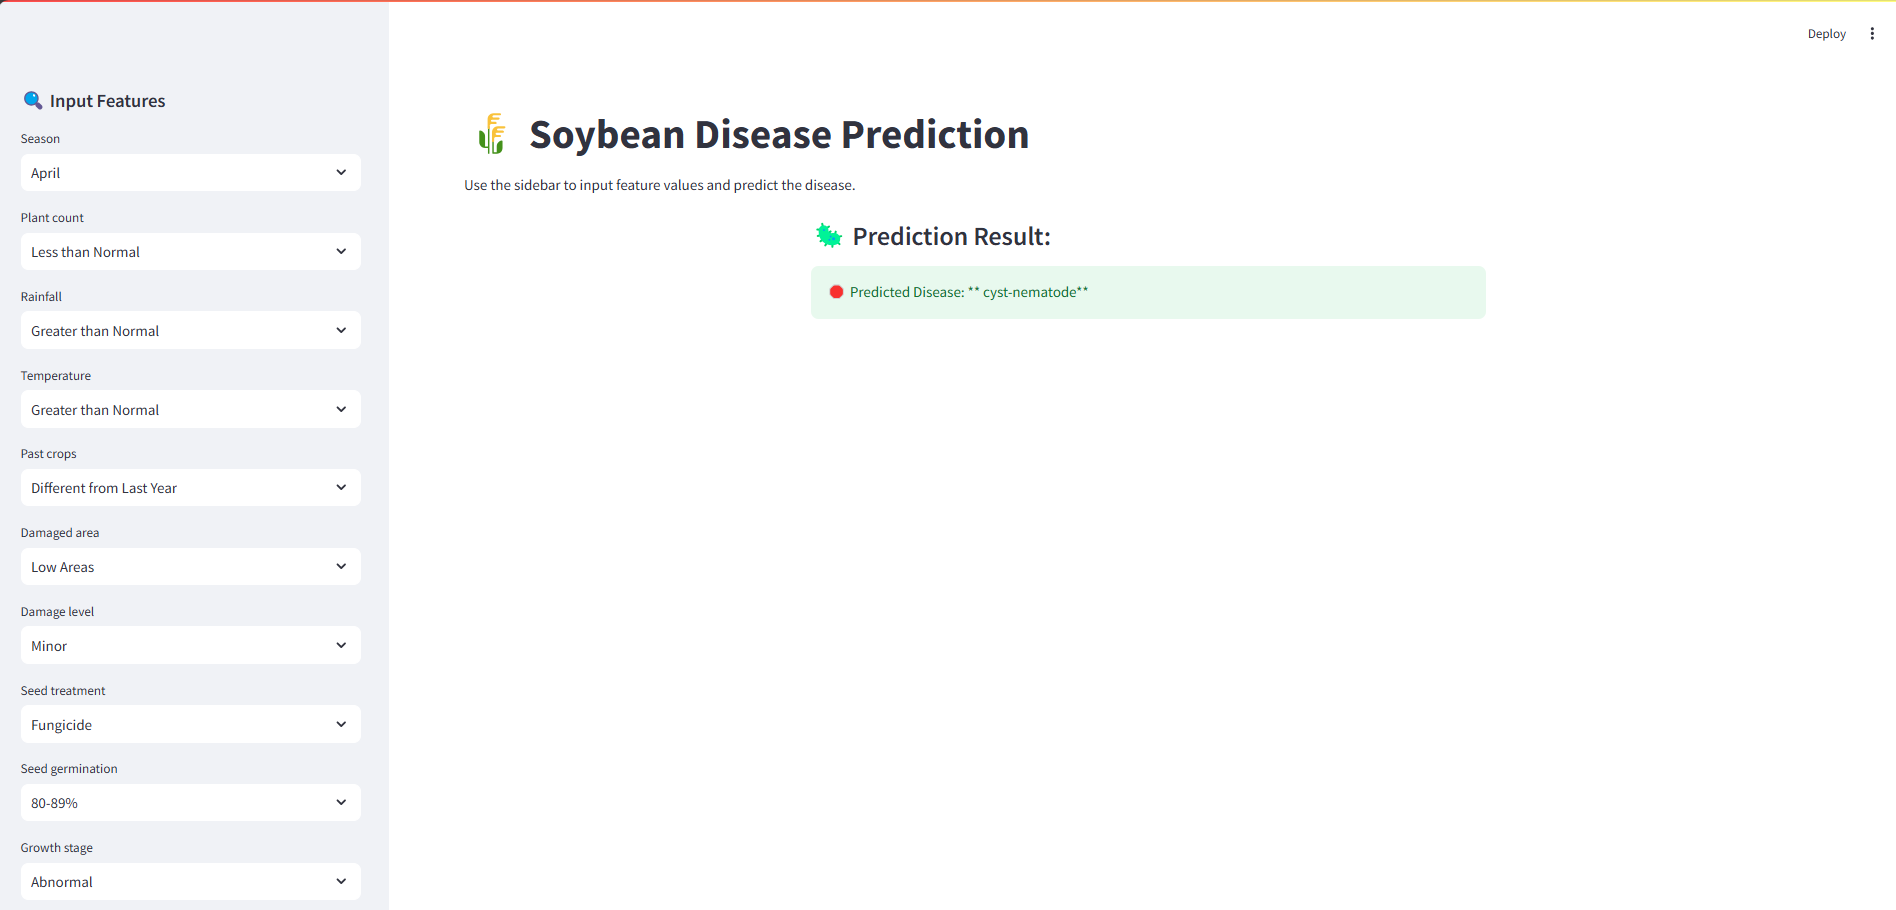
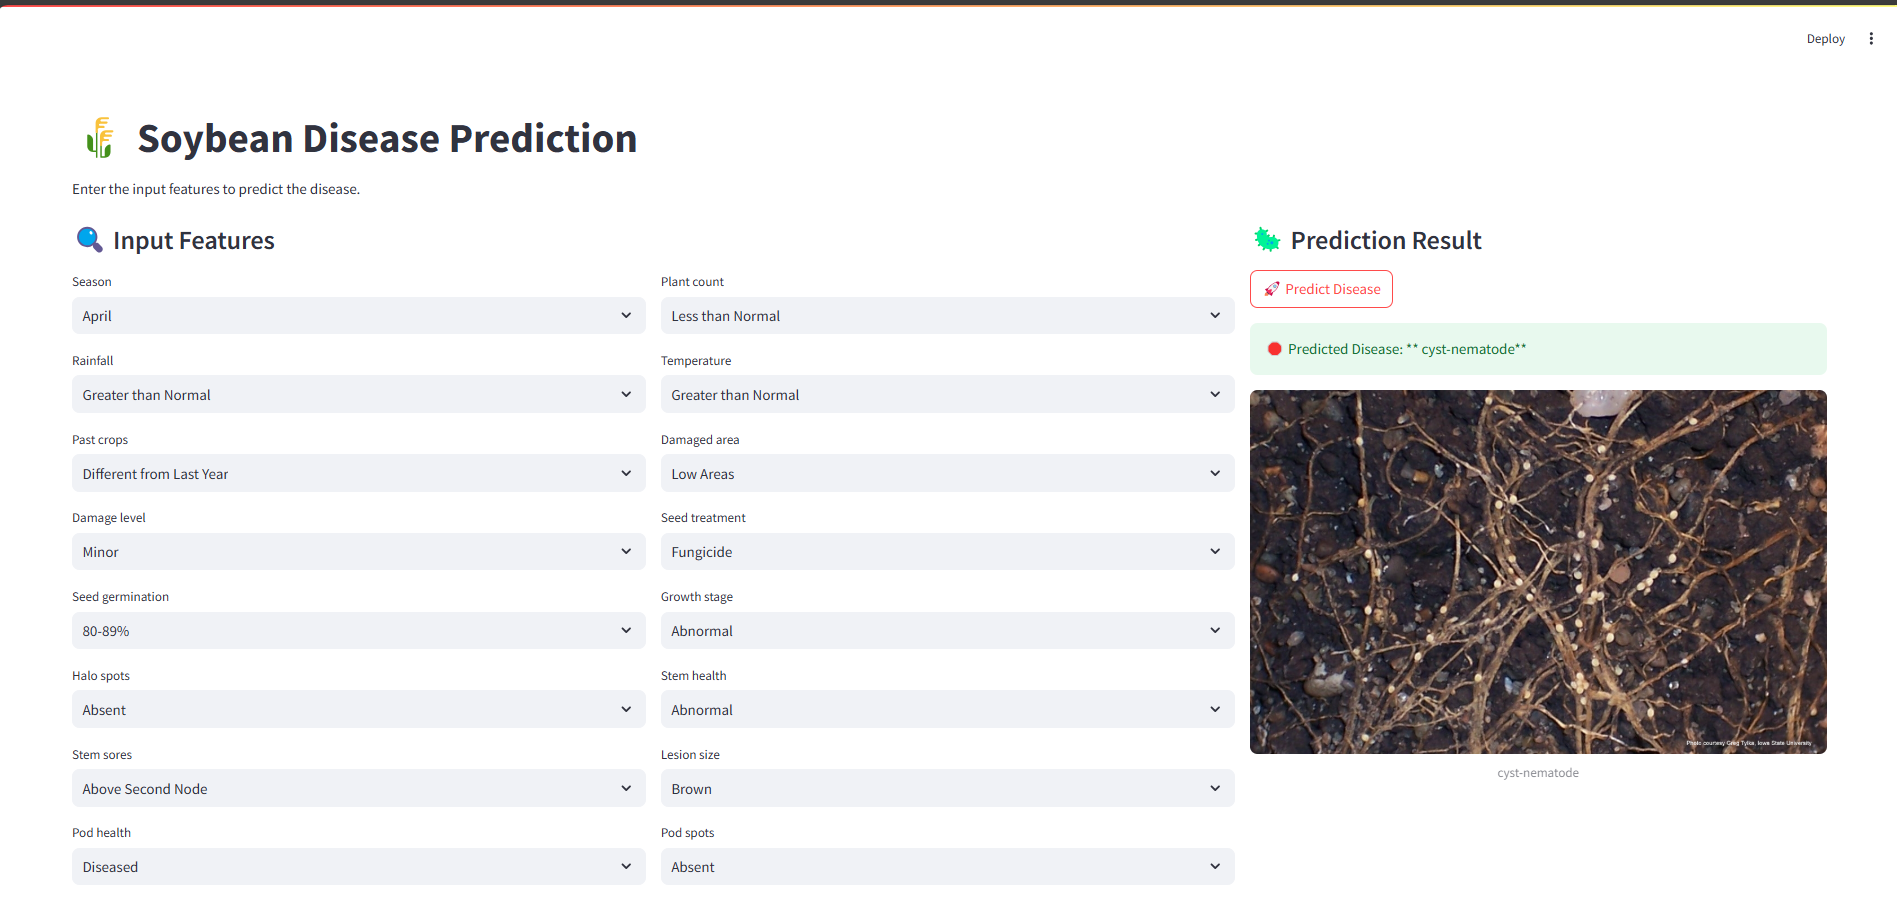
Crop Disease Prediction

diff --git a/apps.py b/apps.py
@@ -2,6 +2,8 @@ import streamlit as st
 import pickle
 import pandas as pd
 import numpy as np
+from PIL import Image
+import os
 
 # Load Processed Data & Label Encoders
 with open("processed_data.pkl", "rb") as file:
@@ -15,14 +17,12 @@ with open("categorical_features.pkl", "rb") as file:
 
 # Load Best Trained Model
 with open("best_model.pkl", "rb") as file:
-        model = pickle.load(file)
+    model = pickle.load(file)
 
-
-# Identify relevant categorical input features (excluding disease_type) 
+# Identify relevant categorical input features
 selected_features = processed_data.drop(columns=["disease_type"]).columns.tolist()
 categorical_input_features = [col for col in categorical_features if col in selected_features]
 
-# Human-readable value mappings
 readable_value_mappings = {
     "season": {'october': 'October', 'august': 'August', 'july': 'July', 'september': 'September',
                 'may': 'May', 'april': 'April', 'june': 'June', '?': 'Unknown'},
@@ -45,44 +45,72 @@ readable_value_mappings = {
     "lesion_size": {' brown': 'Brown', ' dna': 'DNA', ' tan': 'Tan', ' dk-brown-blk': 'Dark Brown to Black'},
 }
 
+disease_image_mapping = {
+    " diaporthe-stem-canker": r"images/Diaporthe Stem Canker.jpg",
+    " charcoal-rot": r"images/charcol rot.jpg",
+    " rhizoctonia-root-rot": r"images/rhizoctonia root rot.jpg",
+    " phytophthora-rot": r"images/phytophthora root.jpg",
+    " brown-stem-rot": r"images/Brown Stem Rot.jpg",
+    " powdery-mildew": r"images/Powdery Mildew.jpg",
+    " downy-mildew": r"images/Downy Mildew.jpg",
+    " brown-spot": r"images/Brown Spot.jpg",
+    " bacterial-blight": r"images/Bacterial Blight.jpg",
+    " bacterial-pustule": r"images/Bacterial Pustule.jpg",
+    " purple-seed-stain": r"images/Purple Seed Stain.jpg",
+    " anthracnose": r"images/Anthracnose.jpg",
+    " phyllosticta-leaf-spot": r"images/Phyllosticta Leaf Spot.jpg",
+    " alternarialeaf-spot": r"images/Alternaria Leaf Spot.jpg",
+    " frog-eye-leaf-spot": r"images/Frog Eye Leaf Spot.jpg",
+    " diaporthe-pod-&-stem-blight": r"images/Diaporthe Pod & Stem Blight.jpg",
+    " cyst-nematode": r"images/Cyst Nematode.jpg",
+    " 2-4-d-injury": r"images/2,4-D Injury.jpg",
+    " herbicide-injury": r"images/Herbicide Injury.jpg"
+}
+
 # Streamlit UI
 st.set_page_config(page_title="Soybean Disease Prediction", layout="wide")
 st.title("🌾 Soybean Disease Prediction")
-st.write("Use the sidebar to input feature values and predict the disease.")
+st.write("Enter the input features to predict the disease.")
 
-# Sidebar for User Inputs
-st.sidebar.header("🔍 Input Features")
-user_input = {}
+# Layout for Input & Output
+col1, col2 = st.columns([2, 1])
 
-# Categorical Inputs (Dropdown in Sidebar)
-for feature in categorical_input_features:
-    if feature in label_encoders and feature in readable_value_mappings:  # Ensure encoder and mapping exist
-        options = label_encoders[feature].classes_
-        options = [opt for opt in options if opt.strip() != "?"]  # Remove "?" from options
-        readable_options = [readable_value_mappings[feature].get(opt, opt) for opt in options]
-        selected_value = st.sidebar.selectbox(f"{feature.replace('_', ' ').capitalize()}", readable_options)
-        # Reverse map human-readable selection back to encoded value
-        encoded_value = next(k for k, v in readable_value_mappings[feature].items() if v == selected_value)
-        encoded_value = label_encoders[feature].transform([encoded_value])[0]
-        user_input[feature] = encoded_value
+# Left Side - Input Fields
+with col1:
+    st.subheader("🔍 Input Features")
+    user_input = {}
+    colA, colB = st.columns(2)
+    
+    for idx, feature in enumerate(categorical_input_features):
+        if feature in label_encoders and feature in readable_value_mappings:
+            options = label_encoders[feature].classes_
+            options = [opt for opt in options if opt.strip() != "?"]
+            readable_options = [readable_value_mappings[feature].get(opt, opt) for opt in options]
+            
+            # Distribute input fields in two columns
+            selected_value = (colA if idx % 2 == 0 else colB).selectbox(
+                f"{feature.replace('_', ' ').capitalize()}", readable_options
+            )
+            
+            encoded_value = next(k for k, v in readable_value_mappings[feature].items() if v == selected_value)
+            encoded_value = label_encoders[feature].transform([encoded_value])[0]
+            user_input[feature] = encoded_value
 
 # Convert input to DataFrame
-user_df = pd.DataFrame([user_input])
+user_df = pd.DataFrame([user_input]).reindex(columns=selected_features, fill_value=0)
 
-# Ensure user_df matches model's training features
-missing_features = set(selected_features) - set(user_df.columns)  # Features in training but not in user_df
-
-# Fix missing features
-for feature in missing_features:
-    user_df[feature] = 0  # Fill missing features with neutral values
-
-user_df = user_df[selected_features]  # Ensure correct column order
-
-# Output Section in Center
-col1, col2, col3 = st.columns([1, 2, 1])
+# Right Side - Prediction Output
 with col2:
-    if st.sidebar.button("🚀 Predict Disease"):
-        prediction_encoded = model.predict(user_df)[0]
+    st.subheader("🦠 Prediction Result")
+    if st.button("🚀 Predict Disease"):
+        prediction_encoded = model.predict(user_df.values)[0]
         predicted_disease = label_encoders["disease_type"].inverse_transform([prediction_encoded])[0]
-        st.subheader("🦠 Prediction Result:")
+        
         st.success(f"🛑 Predicted Disease: **{predicted_disease}**")
+        
+        # Display Image
+        image_path = disease_image_mapping.get(predicted_disease, None)
+        if image_path and os.path.exists(image_path):
+            st.image(image_path, caption=predicted_disease, use_container_width=True)
+        else:
+            st.warning("⚠ Image not found for this disease.")
